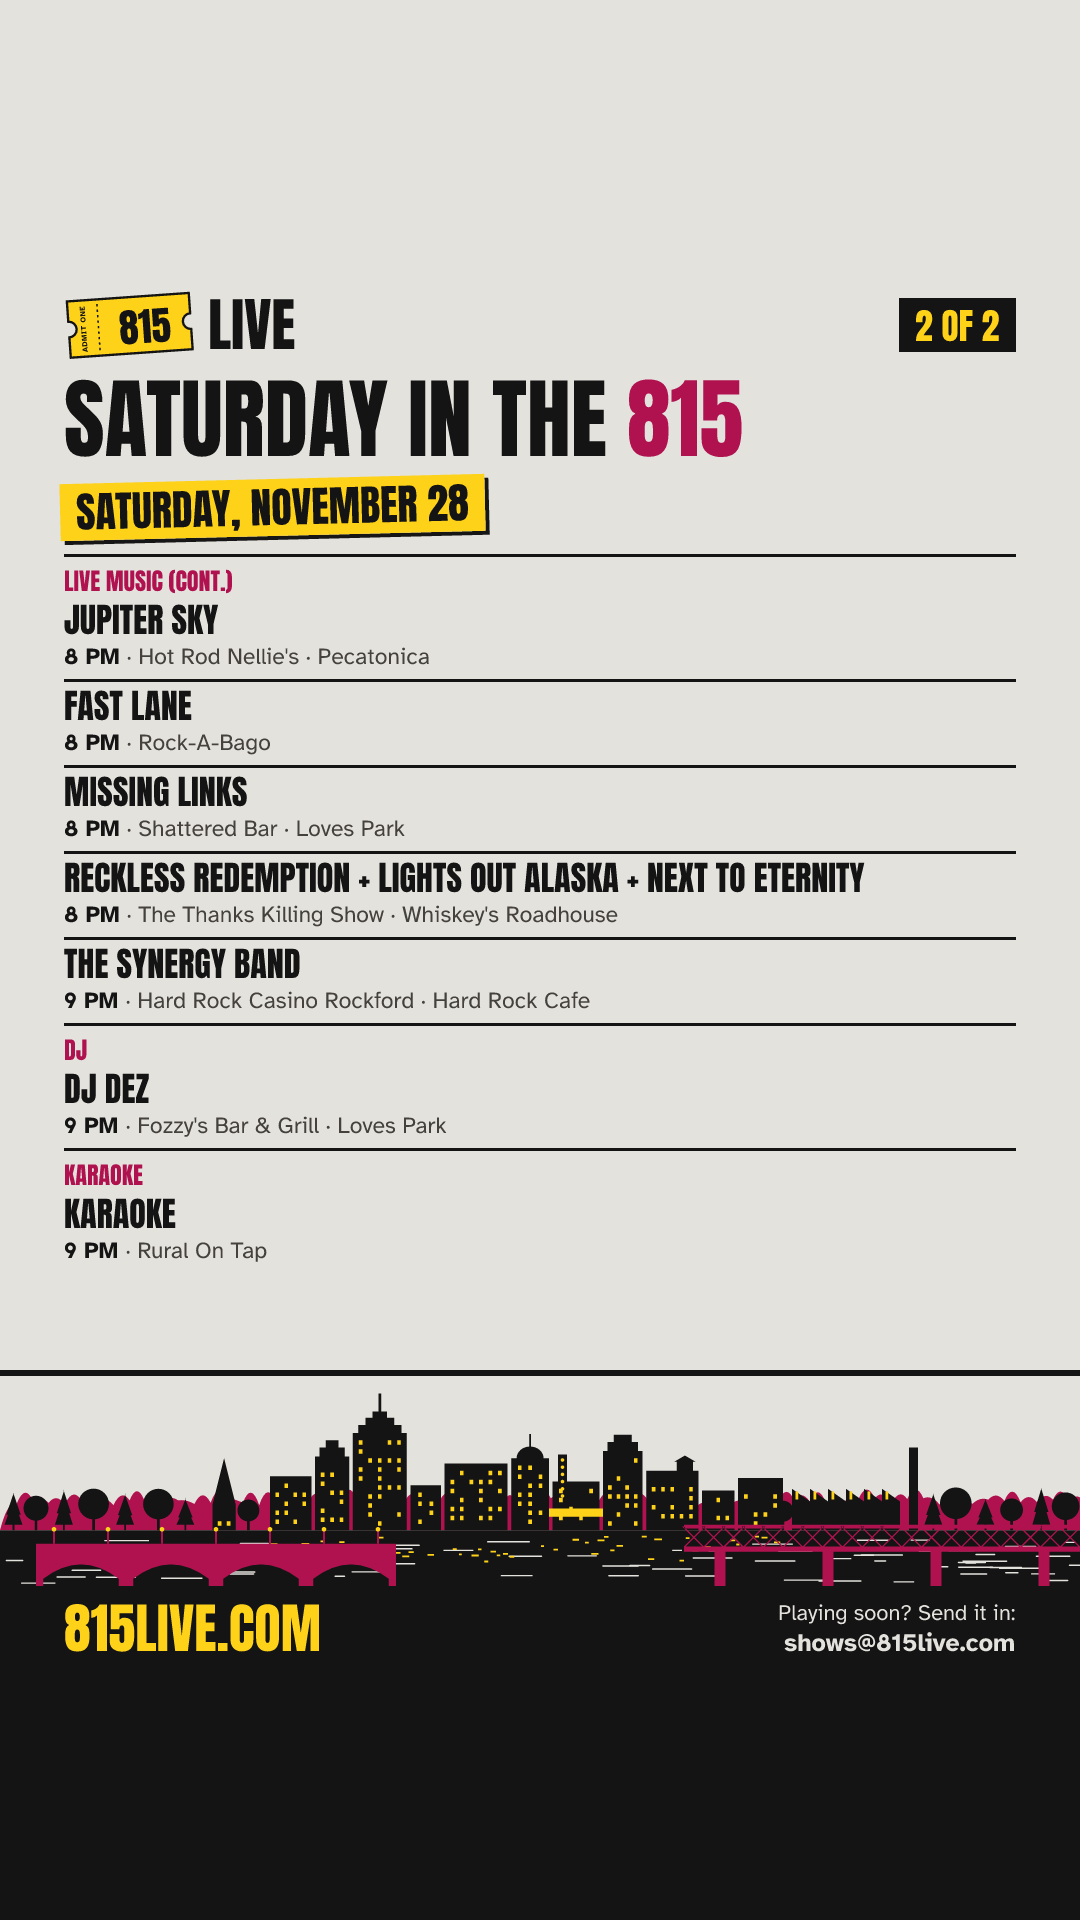
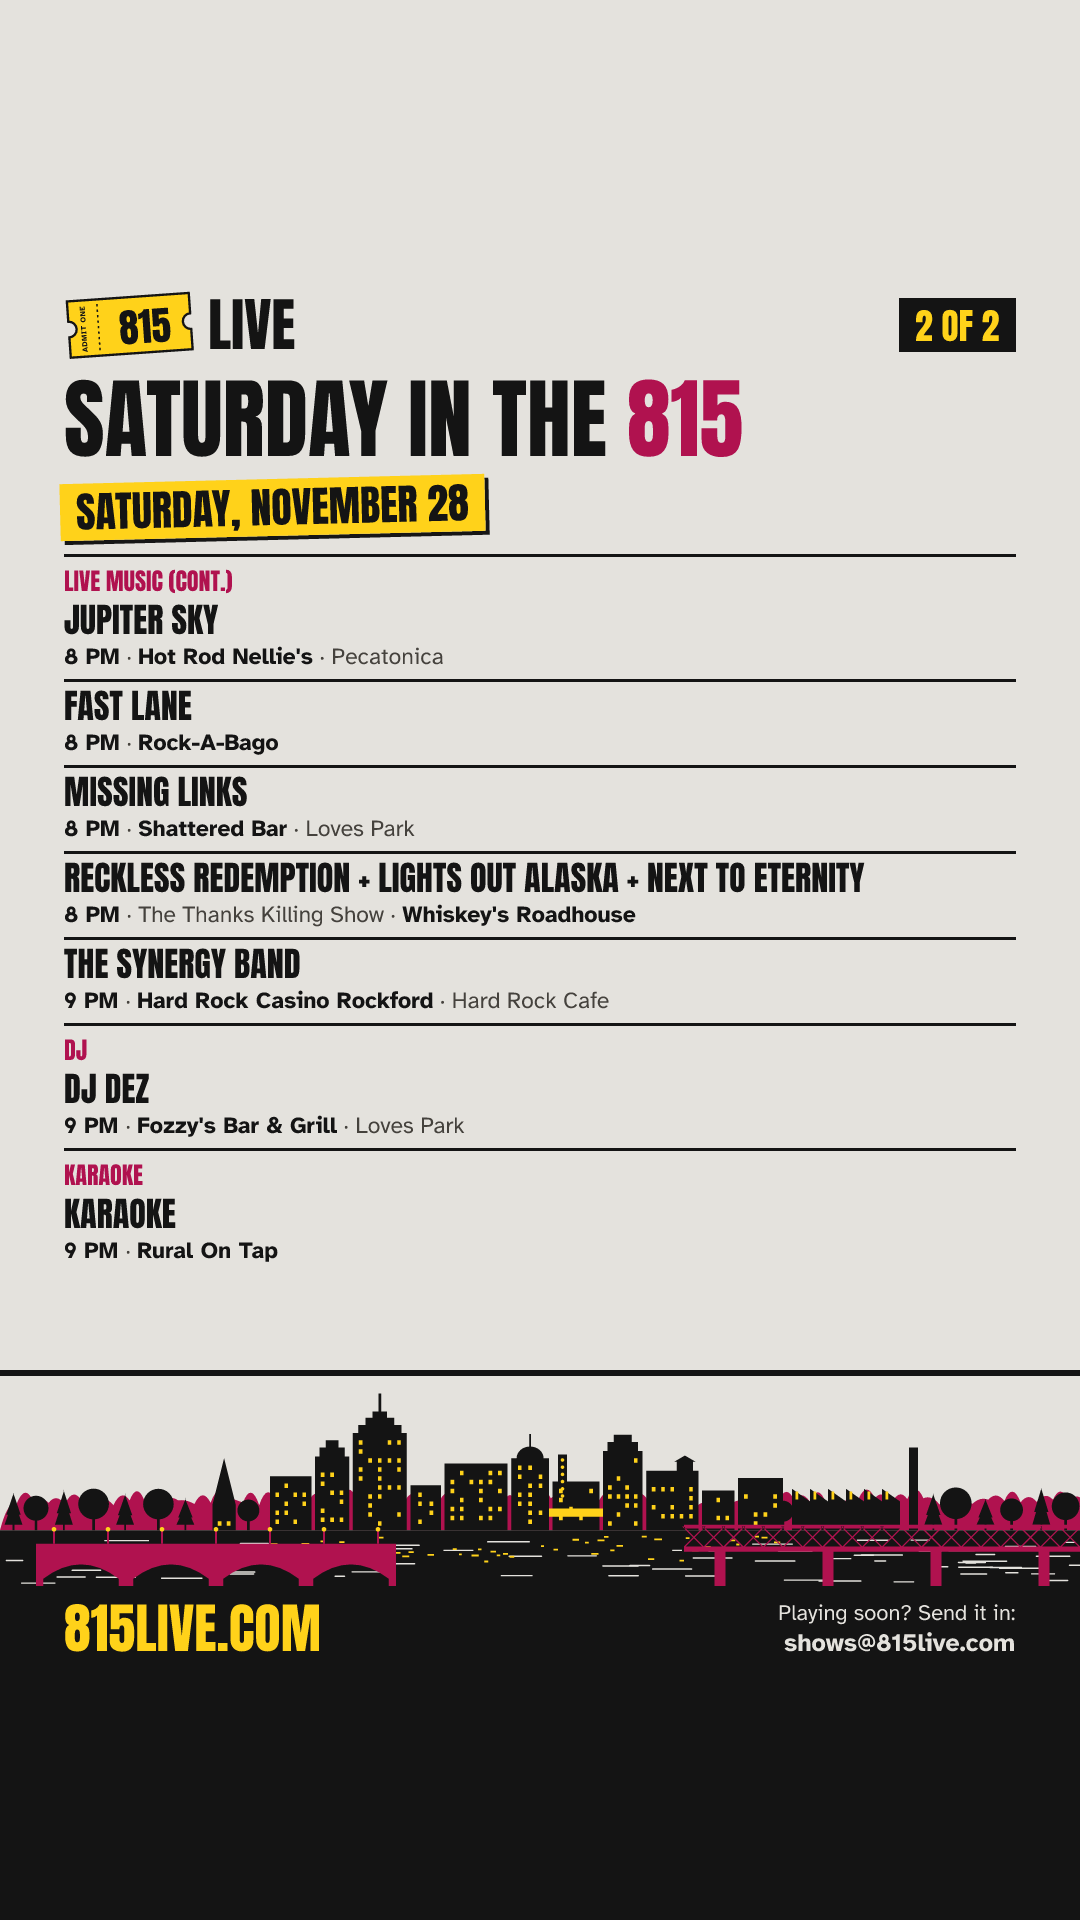
Lineup graphic: name acts once, bold venues
- names.ts: namesOverlap (match or containment, ignoring case, accents and
  punctuation, whole words), titleBesideNames, namesNotInTitle.
- tonight.mjs: the title beside the acts drops any act it repeats
  ("Mana Kintorso (Black Wednesday)" shows "Black Wednesday"); the venue is
  Atkinson 700 in ink like the time, same size; event, stage and town stay
  400 muted.
- Site: the line-up under a show title (cards and show pages) skips acts the
  title already names. listings.mjs does the same.
- tests/names.test.ts covers the duplicate-name cases.
- DESIGN.md updated; busy/average/quiet samples regenerated (busy is still
  2 feed + 2 Story images).

diff --git a/tests/names.test.ts b/tests/names.test.ts
@@ -1,0 +1,50 @@
+import { test } from 'node:test';
+import assert from 'node:assert/strict';
+import { namesNotInTitle, namesOverlap, titleBesideNames } from '../src/lib/names.ts';
+
+test('names overlap: match or containment, ignoring case and punctuation, whole words', () => {
+  assert.equal(namesOverlap('Mana Kintorso (Black Wednesday)', 'Mana Kintorso'), true);
+  assert.equal(namesOverlap('MANA KINTORSO!', 'mana kintorso'), true);
+  assert.equal(namesOverlap('Stamos', 'Jon Bon Stamos'), true); // the name contains the title
+  assert.equal(namesOverlap('AC/DC Tribute', 'ACDC'), false); // "acdc" isn't a word of "ac dc tribute"
+  assert.equal(namesOverlap('AC/DC', 'ACDC'), true);
+  assert.equal(namesOverlap('Guns N’ Roses', "Guns N' Roses"), true);
+  assert.equal(namesOverlap('Crash Night', 'Ash'), false);
+  assert.equal(namesOverlap('Turkey Day Hangover Show', 'Fuzzy Kitty'), false);
+});
+
+// The Pig Minds Black Wednesday listings (2026-11-25) printed the artist twice
+// on the daily graphic: as the act and again in the title beside it.
+test('duplicate names: a title that repeats the artist shows the name once', () => {
+  assert.equal(titleBesideNames('Mana Kintorso (Black Wednesday)', ['Mana Kintorso']), 'Black Wednesday');
+  assert.equal(titleBesideNames('Black Wednesday: Mana Kintorso', ['Mana Kintorso']), 'Black Wednesday');
+  assert.equal(titleBesideNames('Jon Bon Stamos - Black Wednesday', ['Jon Bon Stamos']), 'Black Wednesday');
+  assert.equal(titleBesideNames('Mana Kintorso', ['Mana Kintorso']), undefined);
+  assert.equal(titleBesideNames('mana kintorso.', ['Mana Kintorso']), undefined);
+  assert.equal(titleBesideNames('Stamos', ['Jon Bon Stamos']), undefined);
+  assert.equal(titleBesideNames('An Evening with Stevee Nix', ['Stevee Nix']), 'An Evening');
+  assert.equal(titleBesideNames('Rock with Mana Kintorso and Friends', ['Mana Kintorso']), undefined);
+  // Real titles: the words beside the name stay.
+  assert.equal(titleBesideNames('NYE Bash with Land of Linkin', ['Land of Linkin']), 'NYE Bash');
+  assert.equal(titleBesideNames('Christmas with the Abram Collier Nonet', ['Abram Collier Nonet']), 'Christmas');
+  assert.equal(titleBesideNames('Open Mic Night with Acoustic Revolution', ['Acoustic Revolution']), 'Open Mic Night');
+  assert.equal(titleBesideNames("Mister Pink's Halloween Show", ['Mister Pink']), 'Halloween Show');
+  assert.equal(titleBesideNames('Random AF Farewell Show', ['Random AF']), 'Farewell Show');
+  assert.equal(titleBesideNames('Leinaala and Dave (Unplugged)', ['Leinaala & Dave']), 'Unplugged');
+  assert.equal(titleBesideNames('Leinaala & Dave (Unplugged)', ['Leinaala & Dave']), 'Unplugged');
+  // Titles that don't name the act are kept as they are.
+  assert.equal(titleBesideNames('Final Farewell Show', ['Stevee Nix']), 'Final Farewell Show');
+  assert.equal(titleBesideNames(undefined, ['Stevee Nix']), undefined);
+  // Several acts: each one the title names comes out.
+  assert.equal(titleBesideNames('Mana Kintorso + Jon Bon Stamos (Black Wednesday)', ['Mana Kintorso', 'Jon Bon Stamos']), 'Black Wednesday');
+  assert.equal(titleBesideNames('Mana Kintorso + Jon Bon Stamos', ['Mana Kintorso', 'Jon Bon Stamos']), undefined);
+  assert.equal(titleBesideNames('Mana Kintorso (Black Wednesday)', ['Mana Kintorso', 'Jon Bon Stamos']), 'Black Wednesday');
+  assert.equal(titleBesideNames('Black Wednesday: Mana Kintorso', ['Mana Kintorso', 'Jon Bon Stamos']), 'Black Wednesday');
+});
+
+test('duplicate names: the site line-up skips acts the title names', () => {
+  assert.deepEqual(namesNotInTitle('Mana Kintorso (Black Wednesday)', ['Mana Kintorso']), []);
+  assert.deepEqual(namesNotInTitle('Mana Kintorso (Black Wednesday)', ['Mana Kintorso', 'Jon Bon Stamos']), ['Jon Bon Stamos']);
+  assert.deepEqual(namesNotInTitle('Turkey Day Hangover Show', ['Fuzzy Kitty']), ['Fuzzy Kitty']);
+  assert.deepEqual(namesNotInTitle(undefined, ['Fuzzy Kitty']), ['Fuzzy Kitty']);
+});

diff --git a/src/lib/names.ts b/src/lib/names.ts
@@ -1,0 +1,69 @@
+// Show titles that repeat the act's name. A show can carry both a title and
+// artists, and sometimes the title is just the artist with extra words
+// ("Mana Kintorso (Black Wednesday)"). Anything that prints the title next
+// to the artist names uses these so the name appears once (2026-11-23).
+//
+// Names are compared ignoring case, accents and punctuation, whole words only
+// ("Ash" doesn't match "Clash"), and "AC/DC" equals "ACDC".
+
+/** Lower-case words: accents dropped, "&" as "and", punctuation as spaces. */
+export const normName = (s: string): string =>
+  s
+    .normalize('NFKD')
+    .replace(/[̀-ͯ]/g, '')
+    .toLowerCase()
+    .replace(/&/g, ' and ')
+    .replace(/[^a-z0-9]+/g, ' ')
+    .trim();
+
+const within = (hay: string, needle: string) => ` ${hay} `.includes(` ${needle} `);
+
+/** True when the names match or one contains the other (see above). */
+export function namesOverlap(a: string, b: string): boolean {
+  const x = normName(a);
+  const y = normName(b);
+  if (!x || !y) return false;
+  return x.replace(/ /g, '') === y.replace(/ /g, '') || within(x, y) || within(y, x);
+}
+
+/** The artist names the title doesn't already show. */
+export const namesNotInTitle = (title: string | undefined, names: string[]): string[] =>
+  title ? names.filter((n) => !namesOverlap(title, n)) : names;
+
+// Connectors left dangling once the name is taken out: "with the", "'s", "(".
+const LEAD = /^(?:\s|[-–—:|/,+&([{]|['’]s\b|\bat\b|@)+/i; // after the name: "(Black Wednesday)", "'s Halloween Show"
+const TRAIL = /(?:\s|[-–—:|/,+&([{]|\b(?:with|w\/|featuring|feat\.?|ft\.?|presents|starring)(?:\s+the)?\b)+$/i; // before it
+
+/**
+ * What a title adds beside the artist names: the title itself when it doesn't
+ * name them, otherwise what's left once the names are taken out, minus the
+ * words that only joined them ("Mana Kintorso (Black Wednesday)" and "Black
+ * Wednesday: Mana Kintorso" give "Black Wednesday", "NYE Bash with Land of
+ * Linkin" gives "NYE Bash"). Undefined when nothing is left, or when a name
+ * sits in the middle of a phrase ("Rock with Mana Kintorso and Friends").
+ */
+export function titleBesideNames(title: string | undefined, names: string[]): string | undefined {
+  let rest = title?.trim();
+  const hasText = (s: string) => /[a-z0-9]/i.test(s);
+  for (const name of names) {
+    if (!rest) return undefined;
+    if (!namesOverlap(rest, name)) continue;
+    // The name's words with any punctuation (or none) between them; "and" may be "&".
+    const words = normName(name).split(' ').map((w) => (w === 'and' ? '(?:and|&)' : w));
+    const m = new RegExp(`(?<![a-z0-9])${words.join('[^a-z0-9]*')}(?![a-z0-9])`, 'i').exec(rest);
+    if (!m) return undefined; // the title is part of the name, or accents differ
+    const before = rest.slice(0, m.index);
+    const after = rest.slice(m.index + m[0].length);
+    if (hasText(before) && hasText(after)) return undefined;
+    if (hasText(after)) {
+      // A bracket opened right after the name closes at the end: "Name (Event)".
+      const opened = /^\s*[([{]/.test(after);
+      rest = after.replace(LEAD, '');
+      if (opened) rest = rest.replace(/[)\]}]\s*$/, '');
+    } else {
+      rest = before.replace(TRAIL, '');
+    }
+    rest = rest.trim();
+  }
+  return rest && hasText(rest) ? rest : undefined;
+}

diff --git a/src/lib/data.ts b/src/lib/data.ts
@@ -2,6 +2,7 @@
 import { readFileSync } from 'node:fs';
 import { getCollection, type CollectionEntry } from 'astro:content';
 import { CATEGORIES, isMusic, type Category } from './categories.ts';
+import { namesNotInTitle } from './names.ts';
 import { DATA_DIR } from './paths.ts';
 import type { SOURCE_KINDS } from './sources.ts';
 import { buildNow, byStart, dedupeRecurring, listing, recurringDates, upcoming, WEEKDAYS } from './shows.ts';
@@ -174,8 +175,13 @@ export function billTitle(show: Show): string {
   return rest.length ? `${head} with ${rest.join(', ')}` : (head ?? '');
 }
 
-/** "The Moment, Joie De Vivre, …": the line-up under a titled show. */
-export const lineup = (show: Show) => show.artists.map((a) => a.data.name).join(', ');
+/**
+ * The line-up under a titled show, minus acts the title already names
+ * ("Mana Kintorso (Black Wednesday)" doesn't repeat Mana Kintorso); empty
+ * when the title names them all. See names.ts.
+ */
+export const lineupBesideTitle = (show: Show) =>
+  namesNotInTitle(show.title, show.artists.map((a) => a.data.name)).join(', ');
 
 /** The show's own title when it has one, otherwise its bill. */
 export const showTitle = (show: Show) => show.title ?? billTitle(show);

diff --git a/DESIGN.md b/DESIGN.md
@@ -109,9 +109,17 @@ Daily lineup (`scripts/social/tonight.mjs`), as a show flyer:
 | Date | Anton on a yellow tape strip | 42 px |
 | Section label (Live music, DJ…) | Anton, pink | 28 px (tight 24) |
 | Act(s) | Anton, uppercase, wraps | 42 px (tight 34) |
-| Time · event · venue · town | Atkinson 700 time, 400 rest, muted | 26 px (tight 23) |
+| Time · event · venue · stage · town | Atkinson 700 in ink for the time and the venue; 400 muted for the event title, stage and town | 26 px (tight 23), all one size |
 | Rules between shows | ink | 4 px (tight 3) |
 | Footer | skyline 1080×216, then a 84 px ink strip: 815LIVE.COM (Anton 54, yellow), "Playing soon? Send it in: shows@815live.com" (Atkinson 22/25, paper) | |
+
+The act's name appears once. When a show's title repeats an act's name
+(same name or one contains the other, ignoring case and punctuation), the
+image shows only the rest of the title beside the venue ("Mana Kintorso
+(Black Wednesday)" under MANA KINTORSO reads "Black Wednesday"), or no title
+if nothing is left. The site does the same the other way round: under a show
+title, the line-up skips acts the title already names. Both use
+`src/lib/names.ts`.
 
 Margins 64 px each side. Packing: everything at normal size, else tight,
 else music on one tight image with other events in the room left (dropped
